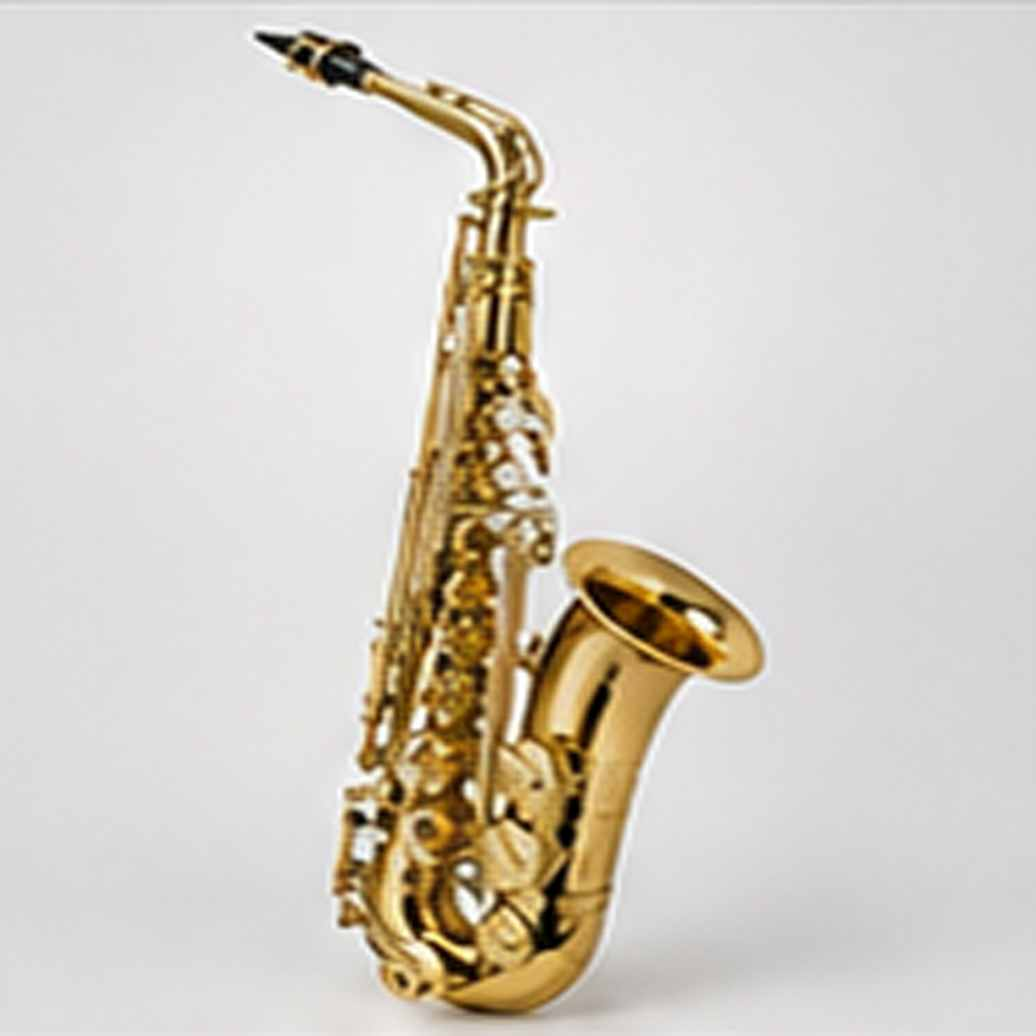
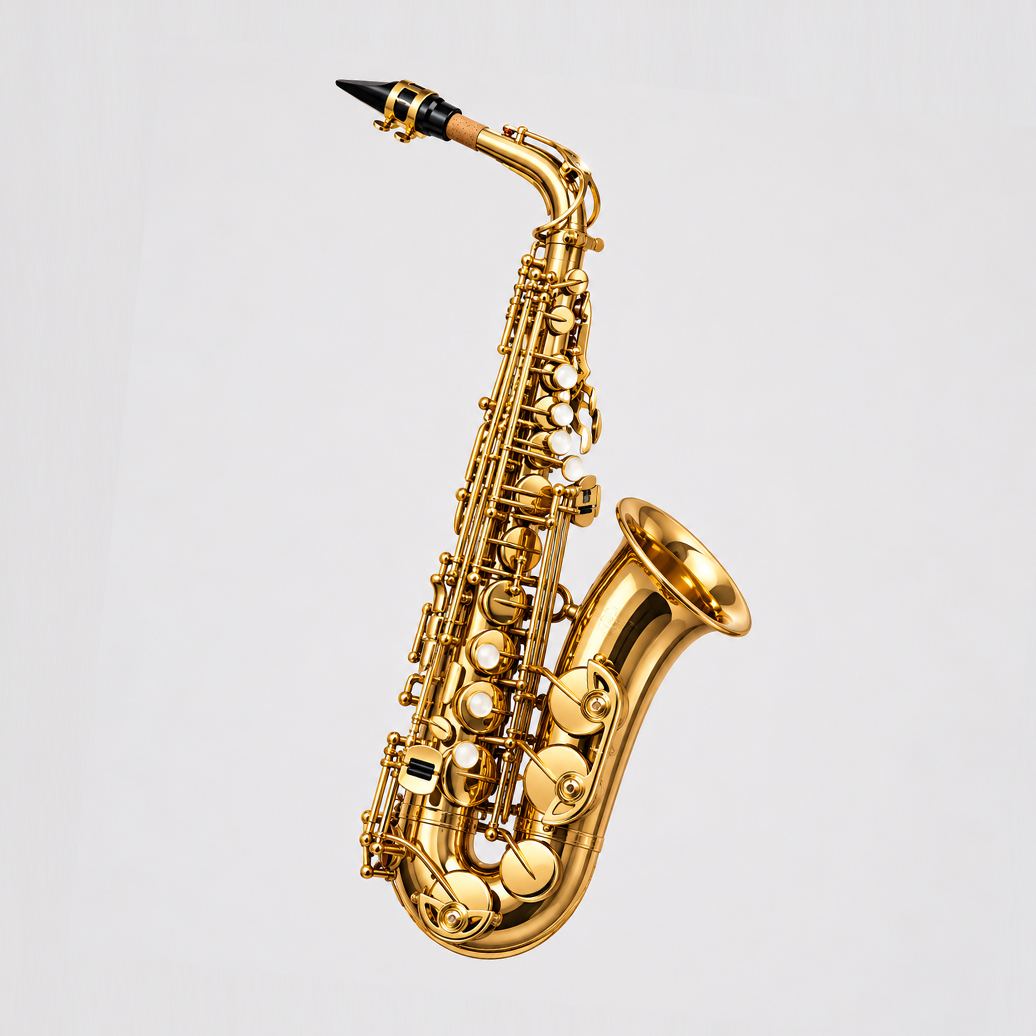
Add files via upload

Changed region(s): [[0.2471, 0.0309, 0.8649, 1.0]]

diff --git a/app/sw.js b/app/sw.js
@@ -1,7 +1,7 @@
-// BANDA DE LA CALA · APP v0.156 · scope /app/
-const CACHE='banda-de-la-cala-app-v0.156';
+// BANDA DE LA CALA · APP v1.157 · scope /app/
+const CACHE='banda-de-la-cala-app-v1.157';
 const PREFIX='banda-de-la-cala-app-';
-const CORE=['./','./index.html','./manifest.webmanifest','./icons/icon-192.png','./icons/icon-512.png','./icons/icon-180.png','../version.js','../style.css','../tuner.css','../tuner.js','../metronome.css','../metronome.js','../app.js','../notifications-inbox.js','../config.js','../content-store.js','../supabase-client.js','../data/content-published.js','../assets/brand/logo-banda-de-la-cala.png','../assets/brand/imago-banda-de-la-cala.png','../assets/brand/app-icon.png','../assets/bandalogo.jpg','../assets/user-icons/user-partitures.png','../assets/user-icons/user-afinador.png','../assets/user-icons/user-metronom.png','../assets/user-icons/user-demos.png','../assets/user-icons/user-pujar-fato.png','../assets/user-icons/user-opcions.png','../assets/user-icons/user-bustia.png','../assets/user-icons/user-notificacions.png','../assets/historic/directors/01_arques.jpg','../assets/historic/directors/02_cloquell.jpg','../assets/historic/directors/03_ramis.jpg','../assets/historic/directors/04_alex1.jpg','../assets/historic/directors/05_pere.jpg','../assets/historic/directors/06_alex2.jpg','../assets/historic/directors/07_chorda.jpg','../assets/historic/directors/08_cabello.jpg','../assets/minigames/cards/quina-nota-es-bg.png','../assets/minigames/cards/escacs-a-banda-bg.png','../assets/minigames/cards/quina-nota-es-icon.png','../assets/minigames/cards/escacs-a-banda-icon.png','./minigames/quina-nota-es/app.html','./minigames/escacs-a-banda/index.html','./minigames/escacs-a-banda/config.js','./minigames/escacs-a-banda/game.js','./minigames/escacs-a-banda/style.css'];
+const CORE=['./','./index.html','./manifest.webmanifest','./icons/icon-192.png','./icons/icon-512.png','./icons/icon-180.png','../version.js','../style.css','../tuner.css','../tuner.js','../metronome.css','../metronome.js','../app.js','../notifications-inbox.js','../config.js','../content-store.js','../supabase-client.js','../data/content-published.js','../assets/brand/logo-banda-de-la-cala.png','../assets/brand/imago-banda-de-la-cala.png','../assets/brand/app-icon.png','../assets/bandalogo.jpg','../assets/user-icons/user-partitures.png','../assets/user-icons/user-afinador.png','../assets/user-icons/user-metronom.png','../assets/user-icons/user-demos.png','../assets/user-icons/user-pujar-fato.png','../assets/user-icons/user-opcions.png','../assets/user-icons/user-bustia.png','../assets/user-icons/user-notificacions.png','../assets/historic/directors/01_arques.jpg','../assets/historic/directors/02_cloquell.jpg','../assets/historic/directors/03_ramis.jpg','../assets/historic/directors/04_alex1.jpg','../assets/historic/directors/05_pere.jpg','../assets/historic/directors/06_alex2.jpg','../assets/historic/directors/07_chorda.jpg','../assets/historic/directors/08_cabello.jpg','../assets/minigames/cards/quina-nota-es-bg.png','../assets/minigames/cards/escacs-a-banda-bg.png','../assets/minigames/cards/quina-nota-es-icon.png','../assets/minigames/cards/escacs-a-banda-icon.png','../assets/avatar/avatar5.jpg','../assets/avatar/avatar10.jpg','../assets/avatar/avatar11.jpg','../assets/avatar/avatar12.jpg','./minigames/quina-nota-es/app.html','./minigames/escacs-a-banda/index.html','./minigames/escacs-a-banda/config.js','./minigames/escacs-a-banda/game.js','./minigames/escacs-a-banda/style.css'];
 self.addEventListener('install',event=>{event.waitUntil(caches.open(CACHE).then(cache=>Promise.allSettled(CORE.map(url=>cache.add(url)))).then(()=>self.skipWaiting()))});
 self.addEventListener('activate',event=>{event.waitUntil((async()=>{const keys=await caches.keys();await Promise.all(keys.filter(key=>key.startsWith(PREFIX)&&key!==CACHE).map(key=>caches.delete(key)));await self.clients.claim()})())});
 function networkFirst(request){return fetch(request,{cache:'no-store'}).then(response=>{if(response.ok||response.type==='opaque'){const copy=response.clone();caches.open(CACHE).then(cache=>cache.put(request,copy)).catch(()=>{})}return response}).catch(()=>caches.match(request))}

diff --git a/app.js b/app.js
@@ -70,17 +70,17 @@ let AVAILABLE_AVATARS = [
   {key:'avatar1',label:'AVATAR 1',src:'assets/avatar/avatar1.jpg'}
 ];
 let avatarDiscoveryPromise = null;
-const AVATAR_CACHE_KEY = 'banda-avatar-list-v032';
+const AVATAR_CACHE_KEY = 'banda-avatar-list-v1.157';
 function avatarNumber(value){ const m=String(value||'').match(/avatar(\d+)/i); return m?Number(m[1]):Number.MAX_SAFE_INTEGER; }
 function avatarFromKey(key){
   const n=avatarNumber(key);
   if(!Number.isFinite(n)||n===Number.MAX_SAFE_INTEGER) return null;
   const base=String(CFG.avatars?.path||'assets/avatar').replace(/\/$/,'');
-  return {key:`avatar${n}`,label:`AVATAR ${n}`,src:`${base}/avatar${n}.jpg`};
+  return {key:`avatar${n}`,label:`AVATAR ${n}`,src:`${base}/avatar${n}.jpg${n===5?'?v=1.157':''}`};
 }
 function setAvailableAvatars(files){
   const base=String(CFG.avatars?.path||'assets/avatar').replace(/\/$/,'');
-  const list=(files||[]).map(name=>String(name||'')).filter(name=>/^avatar\d+\.(?:jpe?g|png|webp)$/i.test(name)).sort((a,b)=>avatarNumber(a)-avatarNumber(b)).map(name=>{const n=avatarNumber(name);return {key:`avatar${n}`,label:`AVATAR ${n}`,src:`${base}/${name}`};});
+  const list=(files||[]).map(name=>String(name||'')).filter(name=>/^avatar\d+\.(?:jpe?g|png|webp)$/i.test(name)).sort((a,b)=>avatarNumber(a)-avatarNumber(b)).map(name=>{const n=avatarNumber(name);return {key:`avatar${n}`,label:`AVATAR ${n}`,src:`${base}/${name}${n===5?'?v=1.157':''}`};});
   if(list.length) AVAILABLE_AVATARS=list;
   return AVAILABLE_AVATARS;
 }

diff --git a/editor/sw.js b/editor/sw.js
@@ -1,5 +1,5 @@
-// BANDA DE LA CALA · EDITOR v0.155 · scope /editor/
-const CACHE='banda-de-la-cala-editor-v0.155';
+// BANDA DE LA CALA · EDITOR v1.157 · scope /editor/
+const CACHE='banda-de-la-cala-editor-v1.157';
 const PREFIX='banda-de-la-cala-editor-';
 const CORE=['./','./index.html','./manifest.webmanifest','./icons/icon-192.png','./icons/icon-512.png','./icons/icon-180.png','../editor.css','../editor.js','../editor-push.js','../version.js','../config.js','../content-store.js','../supabase-client.js','../data/content-published.js','../assets/brand/editor-icon.png','../assets/brand/imago-banda-de-la-cala.png'];
 self.addEventListener('install',event=>{event.waitUntil(caches.open(CACHE).then(cache=>Promise.allSettled(CORE.map(url=>cache.add(url)))).then(()=>self.skipWaiting()))});

diff --git a/app/index.html b/app/index.html
@@ -627,7 +627,7 @@
     </section>
   </div>
 
-  <script src="version.js?v=0.125"></script>
+  <script src="version.js?v=1.157"></script>
   <script src="config.js?v=0.111"></script>
   <script src="data/content-published.js?v=0.111"></script>
   <script src="content-store.js?v=0.111"></script>
@@ -635,7 +635,7 @@
   <script src="supabase-client.js?v=0.117"></script>
   <script src="metronome.js?v=0.111"></script>
   <script src="tuner.js?v=0.111"></script>
-  <script src="app.js?v=0.154"></script>
+  <script src="app.js?v=1.157"></script>
   <script src="push-client.js?v=0.144"></script>
 <script src="../notifications-inbox.js?v=0.154"></script>
 </body>

diff --git a/version.js b/version.js
@@ -1,1 +1,1 @@
-window.BANDA_VERSION = 'v0.156';
+window.BANDA_VERSION = 'v1.157';
